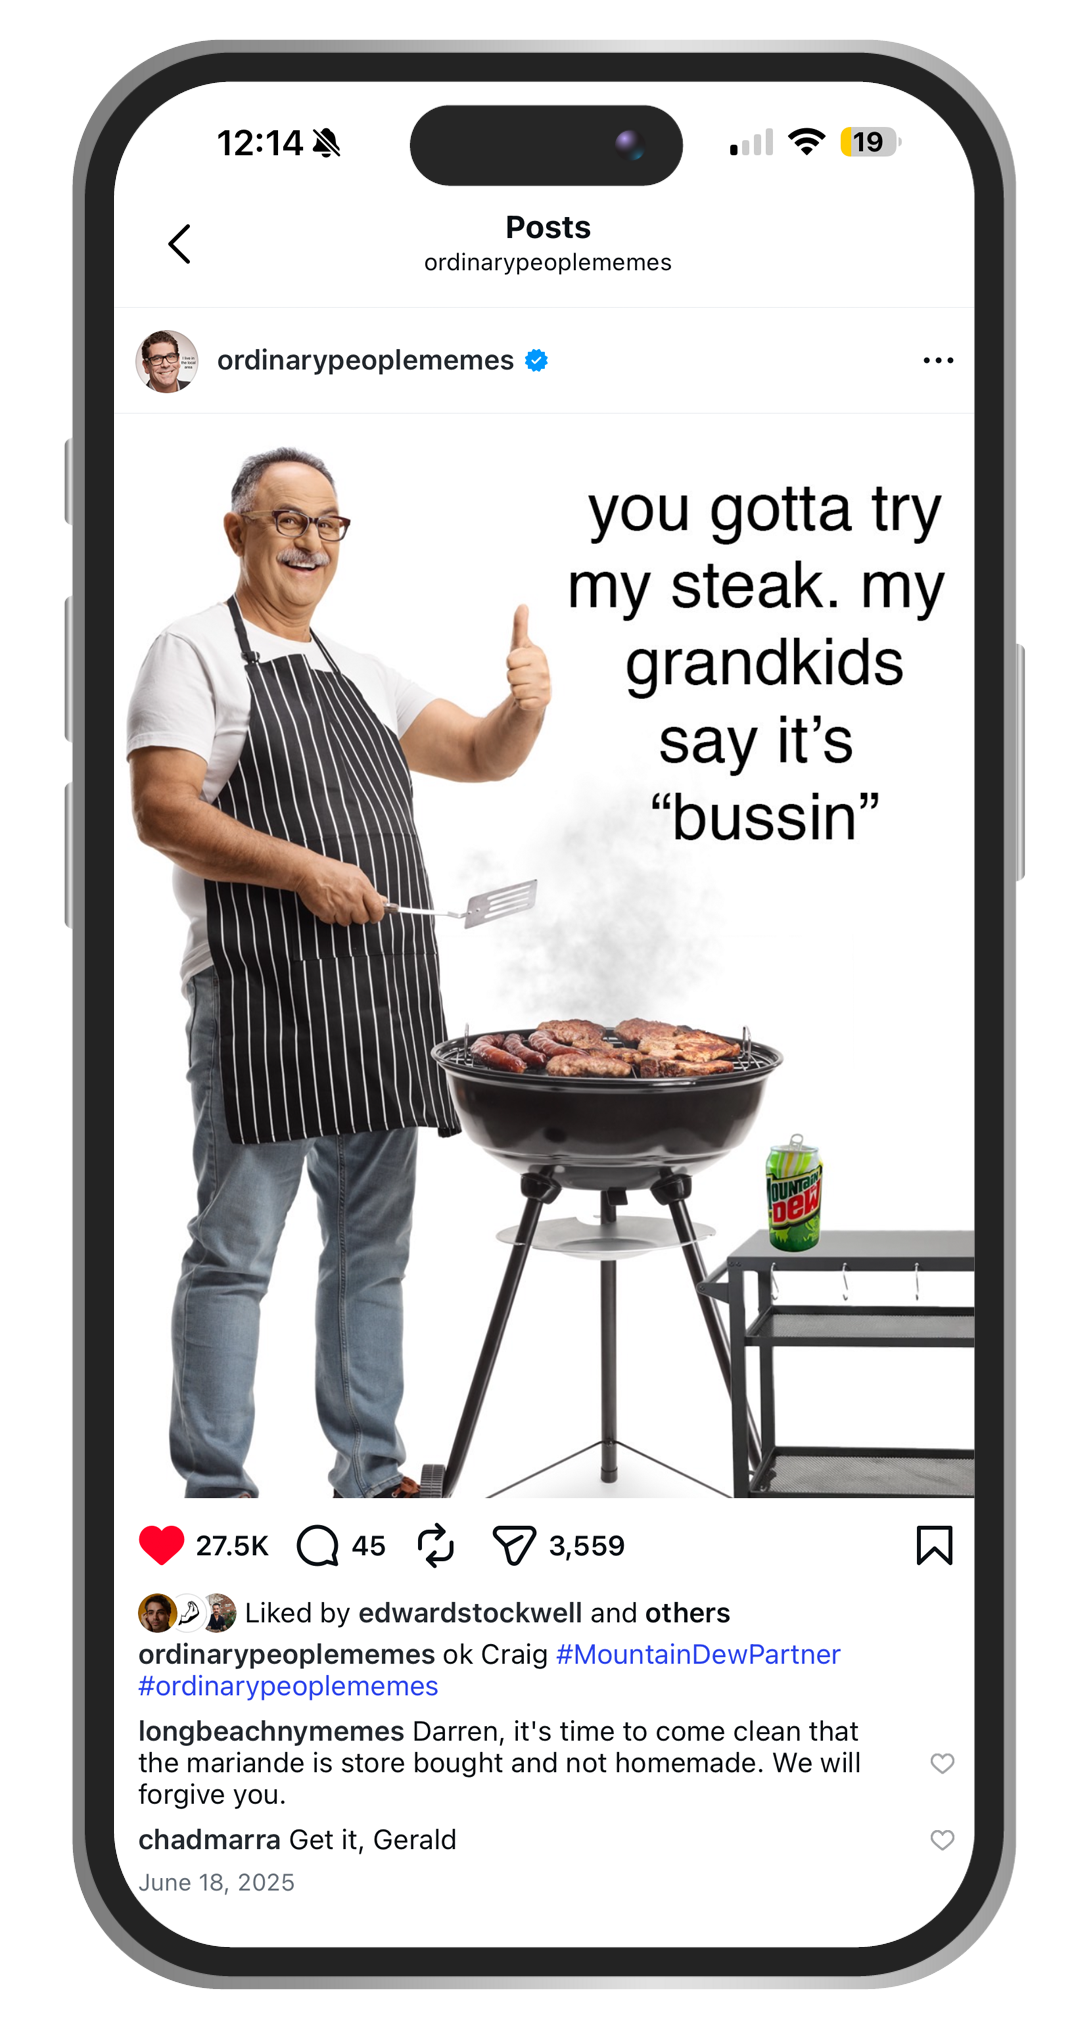
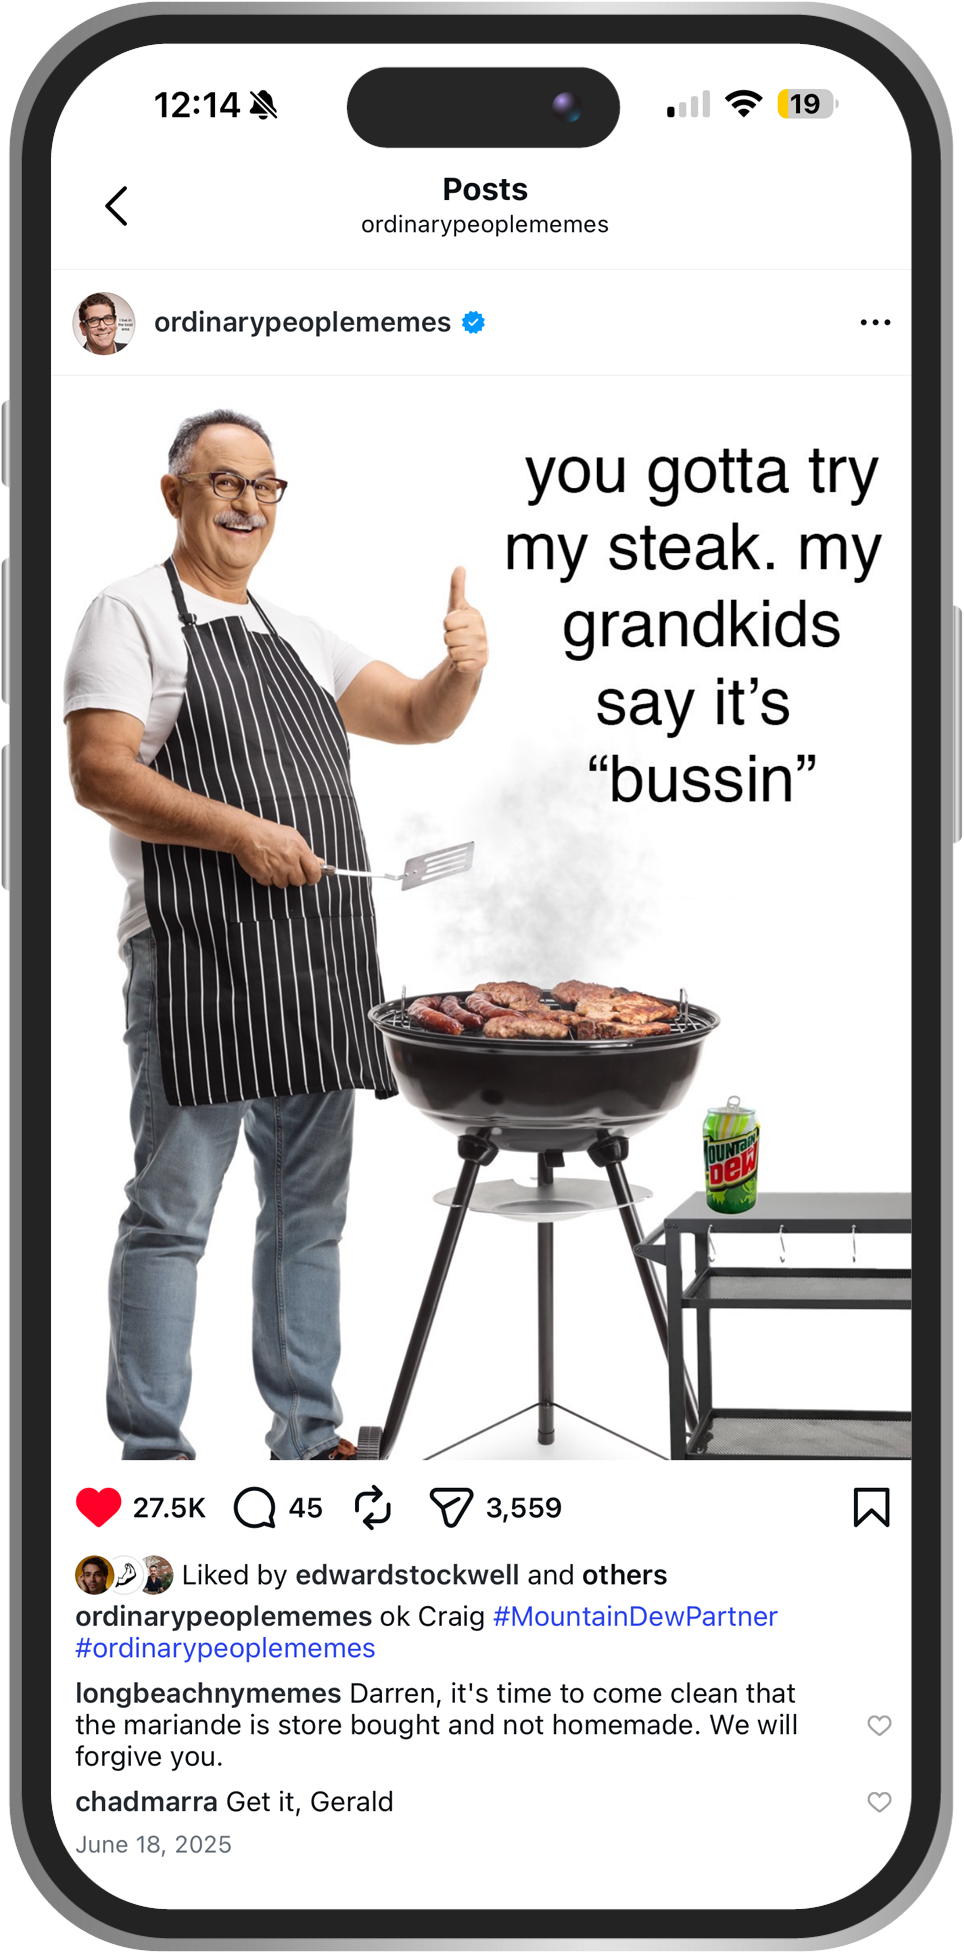
Fix phantom card background, enlarge and left-align Mountain Dew carousel
The meme PNGs had a transparent margin baked in; border-radius and
box-shadow on the img were applying to that full oversized bounding
box instead of the visible phone, creating a rounded card-shaped
halo behind each phone. Cropped both images tight to their visible
content to fix it.

Also bumped card height from 760px to 900px on desktop (scaled
proportionally down the breakpoints), trimmed the info column
slightly to give the carousel more room, and switched to asymmetric
padding so cards sit closer to the left edge of the section instead
of centered with equal space on both sides.

diff --git a/assets/style.css b/assets/style.css
@@ -738,8 +738,8 @@ section { padding: 84px 0; }
 /* campaign layout (stats + swipeable content, side by side) */
 .campaign-layout {
   display: grid;
-  grid-template-columns: minmax(260px, 340px) 1fr;
-  gap: 40px;
+  grid-template-columns: minmax(240px, 300px) 1fr;
+  gap: 32px;
   align-items: start;
 }
 
@@ -753,7 +753,7 @@ section { padding: 84px 0; }
   gap: 28px;
   overflow-x: auto;
   scroll-snap-type: x mandatory;
-  padding: 20px 16%;
+  padding: 20px 20% 20px 2%;
   scrollbar-width: none;
 }
 
@@ -761,7 +761,7 @@ section { padding: 84px 0; }
 
 .campaign-card {
   flex: 0 0 auto;
-  height: 760px;
+  height: 900px;
   display: flex;
   align-items: center;
   justify-content: center;
@@ -777,20 +777,20 @@ section { padding: 84px 0; }
   display: block;
 }
 
-.campaign-card .video-phone { width: 364px; }
+.campaign-card .video-phone { width: 428px; }
 
 @media (max-width: 900px) {
   .campaign-layout { grid-template-columns: 1fr; }
   .campaign-carousel-wrap .carousel-controls { margin-top: 8px; }
-  .campaign-peek-carousel { padding: 16px 12%; }
-  .campaign-card { height: 580px; }
-  .campaign-card .video-phone { width: 281px; }
+  .campaign-peek-carousel { padding: 16px 16% 16px 2%; }
+  .campaign-card { height: 680px; }
+  .campaign-card .video-phone { width: 327px; }
 }
 
 @media (max-width: 560px) {
-  .campaign-peek-carousel { padding: 12px 6%; gap: 20px; }
-  .campaign-card { height: 480px; }
-  .campaign-card .video-phone { width: 235px; }
+  .campaign-peek-carousel { padding: 12px 10% 12px 2%; gap: 20px; }
+  .campaign-card { height: 560px; }
+  .campaign-card .video-phone { width: 271px; }
 }
 
 /* Long Beach, NY Memes carousel */
